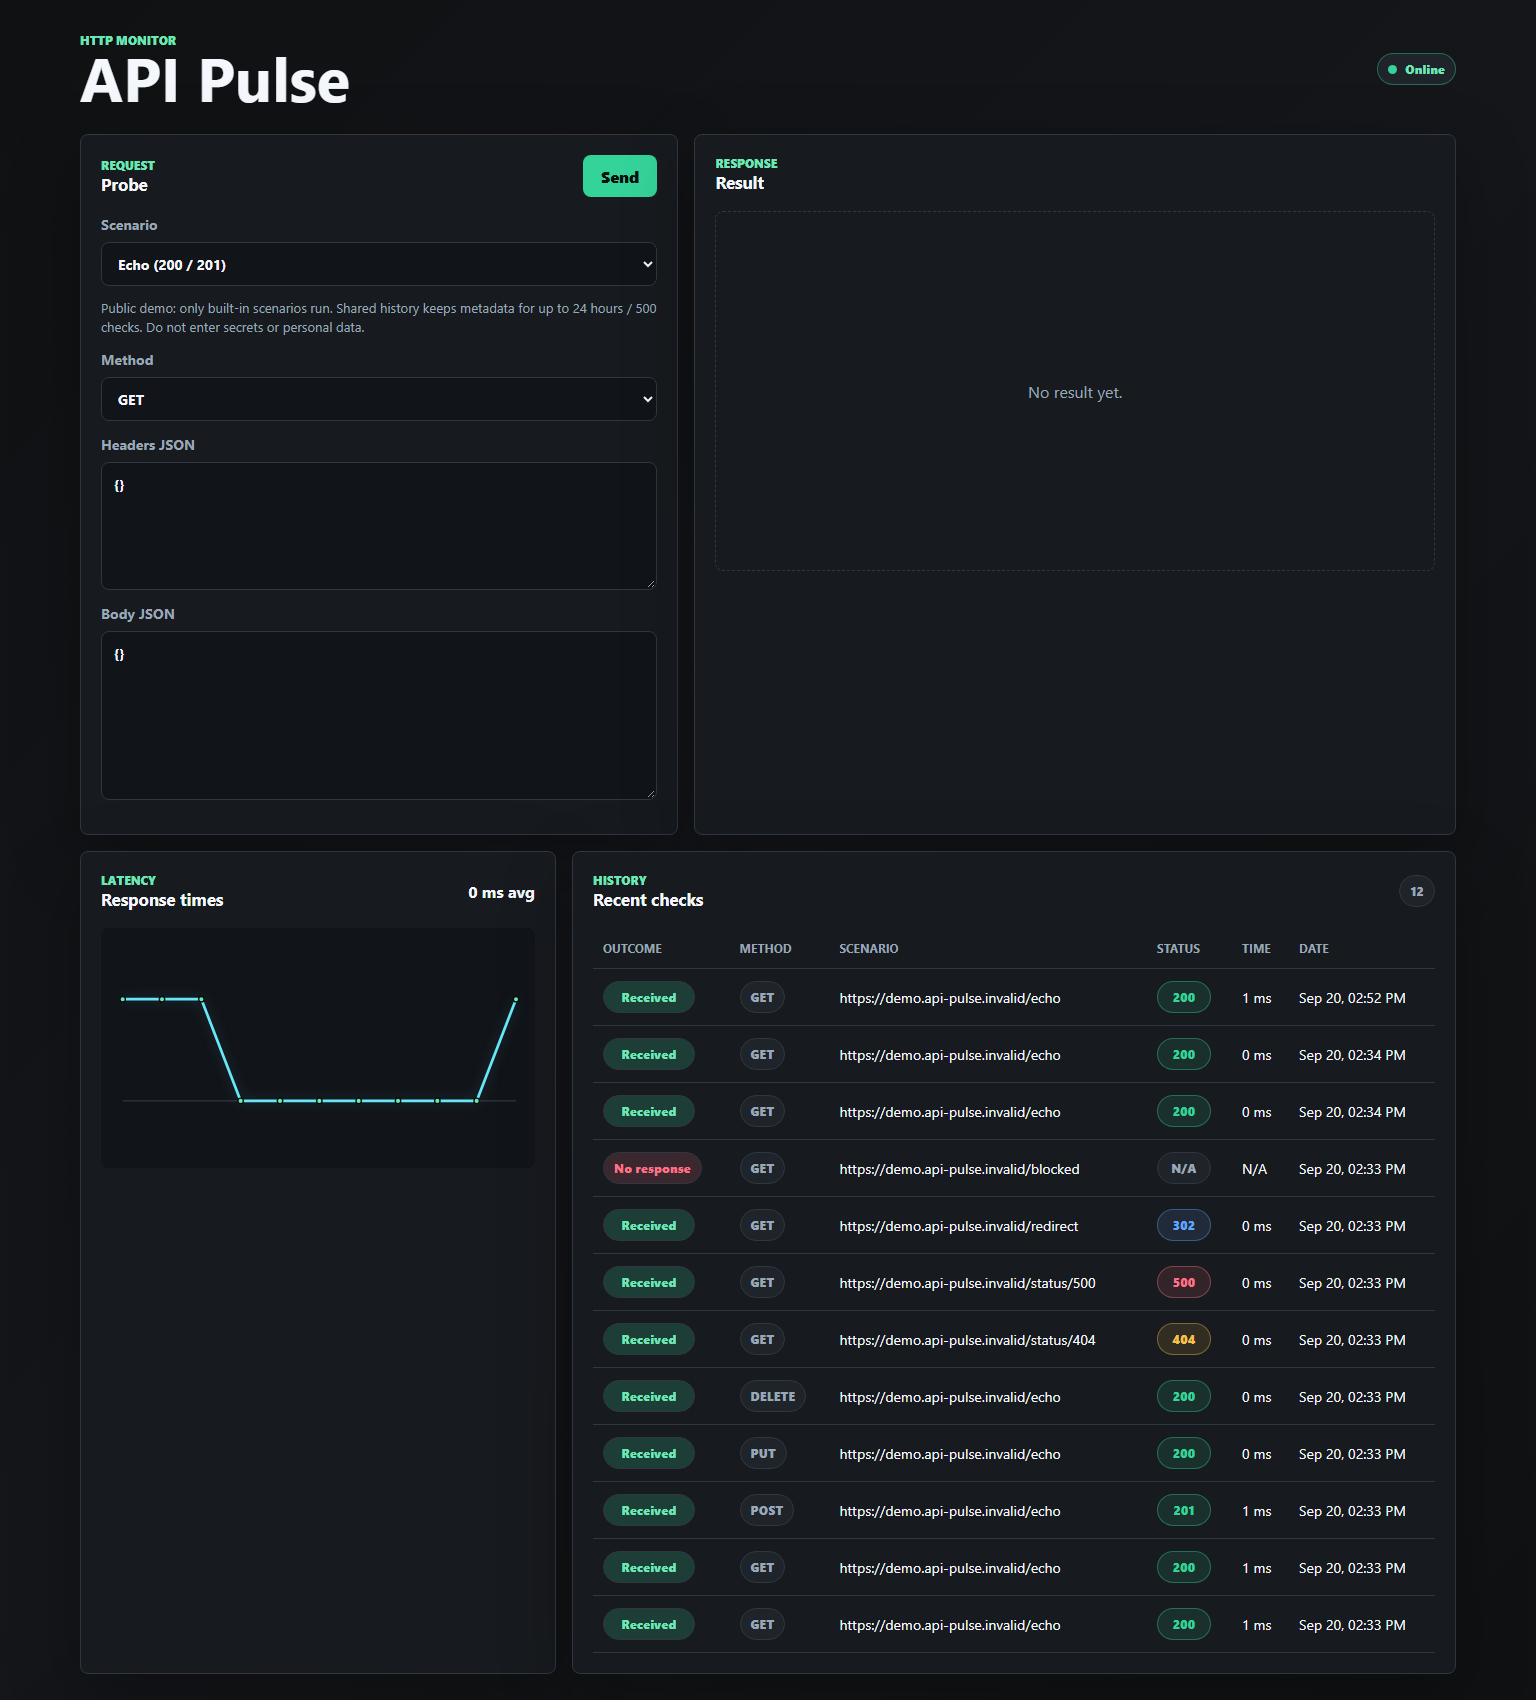
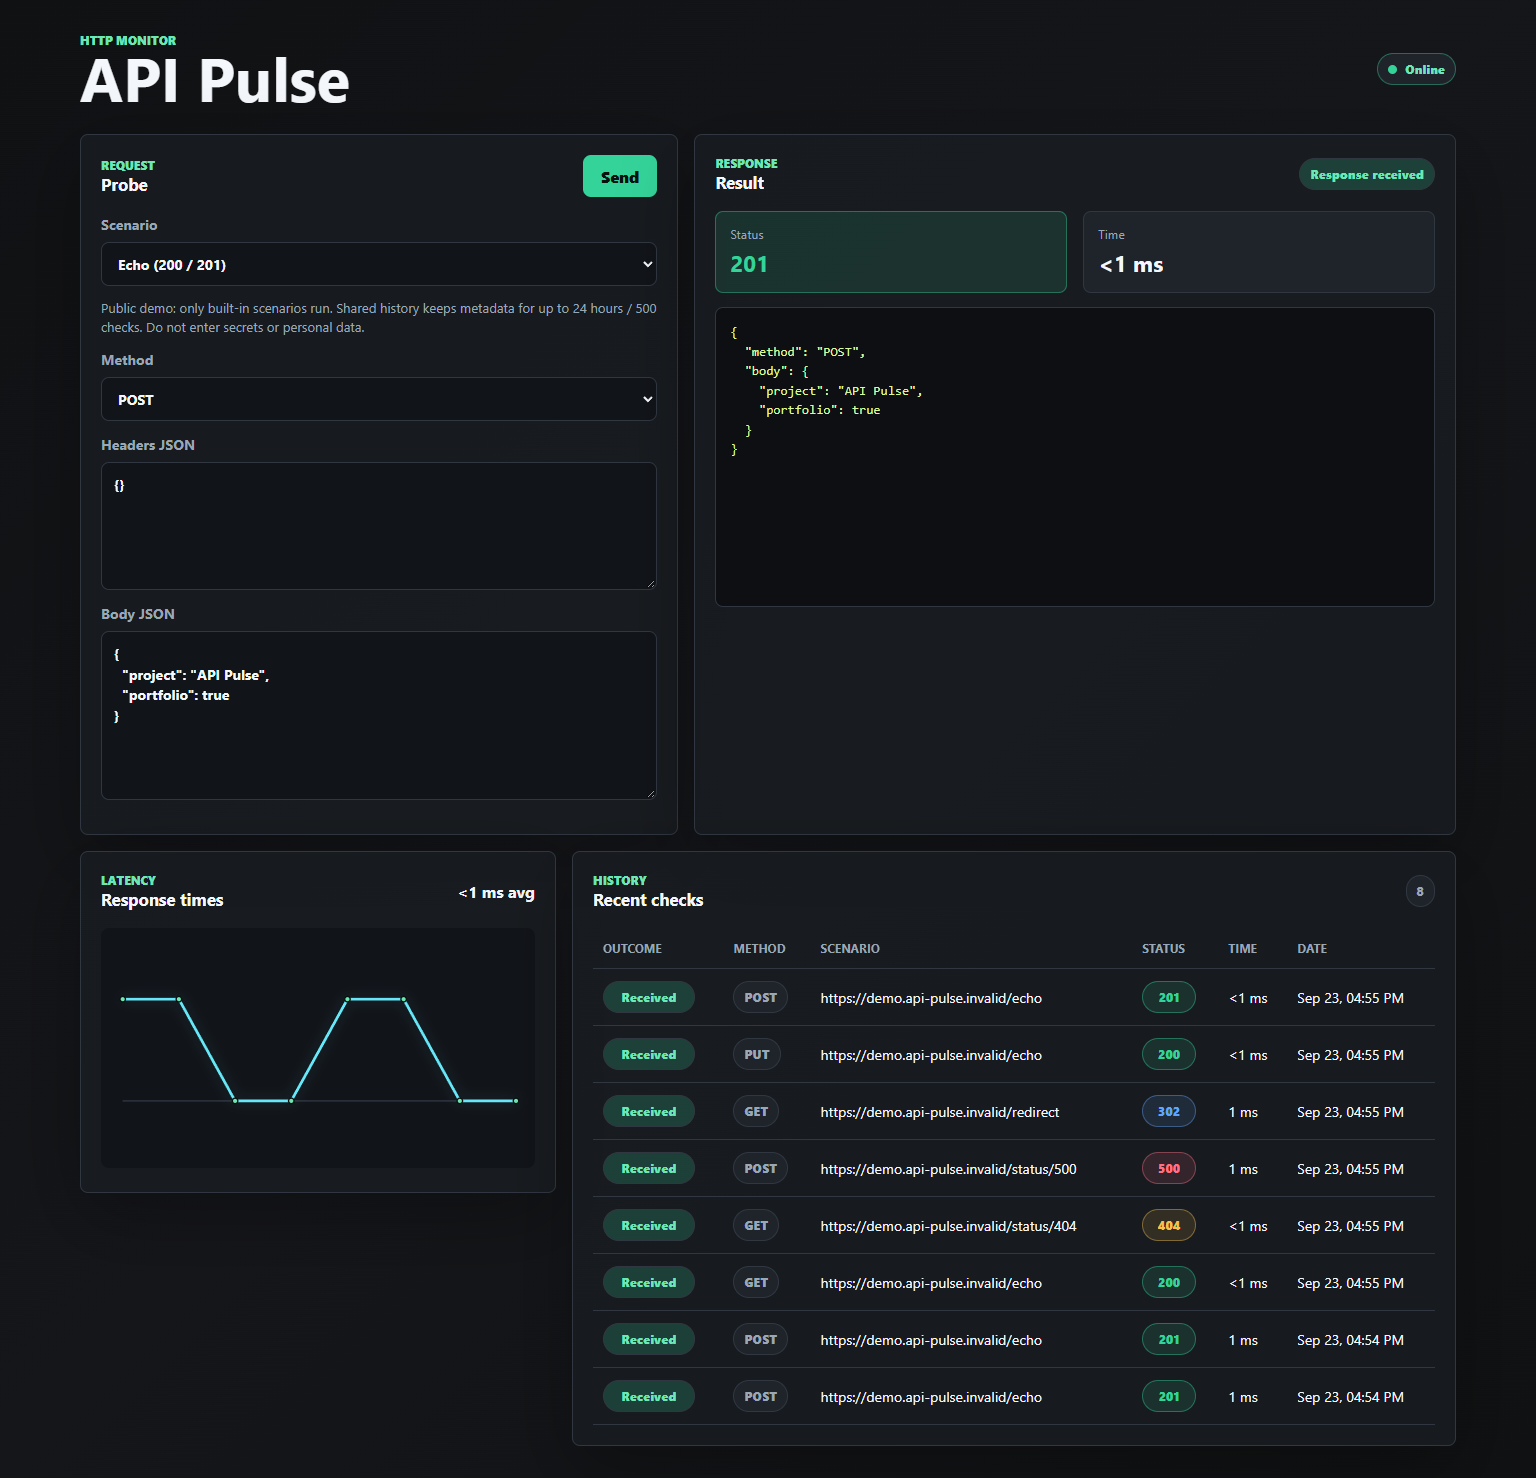
Refresh the README screenshots and record the final verification
The screenshots dated from before the fixes and showed "0 ms avg" next to a
moving chart, which is exactly what T13 corrected. Both were retaken from the
published demo running adf5bf7, through a headless Chrome on a throwaway
profile, with a real result in the Result panel, varied statuses in the
history and the latency card no longer stretched.

T13 records the full sweep: 39 API checks on the published demo and 39 on the
local integration stack, both without failures, plus the browser passes. The
PostgreSQL smoke ran locally for the first time, on a database created and
dropped for the test.

The 24-hour pruning was observed directly for the first time: a day after the
last checks, the published history came back empty, so the README no longer
lists that as unobserved.

diff --git a/docs/ESTADO_ACTUAL.md b/docs/ESTADO_ACTUAL.md
@@ -414,6 +414,54 @@ Los formatos ráster se generan con la misma geometría: `favicon.ico` con 16, 3
 
 **Comprobaciones:** `npm run build` coloca los tres archivos en `dist/`; `npm test` (12 aprobados) y `npm run lint` aprobados.
 
+## T13 — Verificación final antes del portafolio
+
+**Estado: completado el 2026-09-22 y 2026-09-23.** Batería completa en los dos entornos a petición del usuario, antes de enlazar el proyecto desde su portafolio.
+
+### Demo publicada
+
+39 comprobaciones de API aprobadas, 0 fallidas: `/health` y `/ready`; los cuatro escenarios con los cuatro métodos; 404, 500 y 302 con `success=true`; host en mayúsculas aceptado; destino externo rechazado sin guardar la URL; 429 al superar la cuota del minuto; 422 en cabecera con CRLF, cabecera no ASCII, método no permitido, cuerpo que no es objeto y `limit` fuera de rango; 413 en `/api/checks` y en `/api/checks/`; historial ordenado, con fecha en zona horaria, sin secretos y solo con URLs canónicas; `/api/checks/` y `/health/` sin redirección; HTTP plano redirigido a HTTPS; preflight CORS aceptado desde el sitio y sin cabecera para un origen ajeno; HSTS, favicons y el paquete JS apuntando a la API HTTPS.
+
+En navegador se recorrieron los cuatro escenarios, las validaciones del formulario y la vista móvil a 375 px, sin errores de consola ni desbordamiento horizontal.
+
+### Stack local de integración
+
+39 comprobaciones aprobadas, 0 fallidas, contra PostgreSQL 16 y el destino controlado del proyecto: cuatro métodos con cuerpo, cabecera y query verificados en el eco; 404, 500, 418 y 302 sin seguir la redirección; diez destinos bloqueados, incluidos los nombres internos de Docker `backend` y `postgres`; entradas malformadas registradas como fallo; credenciales de la URL redactadas; 422 de esquema; historial ordenado; preflight CORS desde el frontend local; y un GET real a `https://api.github.com/zen` (HTTP 200 en 274 ms) para comprobar la salida a Internet.
+
+El historial sobrevivió a `restart` con el mismo último id. **El smoke de PostgreSQL se ejecutó por primera vez en local** sobre una base dedicada y temporal creada y eliminada para la prueba: aprobado. También valida el arranque con `lifespan` y la poda contra PostgreSQL real.
+
+### Defectos encontrados y corregidos ([PR #8](https://github.com/estebanfrm/Api-Pulse/pull/8), merge `adf5bf7`)
+
+| # | Defecto | Evidencia | Corrección |
+| --- | --- | --- | --- |
+| 1 | `docker compose up` dejaba el frontend caído: el `Dockerfile` copiaba `vite.config.js` pero no `productionBuild.js`, que ese archivo importa desde T06. El contenedor salía con `Could not resolve "./productionBuild.js"`, así que el recorrido «Ejecutar en local» del README no funcionaba desde T06 | Primer arranque real del stack tras instalar Docker | El `Dockerfile` copia el archivo, y el job de Compose construye la imagen y ejecuta `vite build` dentro. Se comprobó que el control falla con el `Dockerfile` anterior (exit 1) y aprueba con la corrección |
+| 2 | La interfaz mostraba «0 ms» y «0 ms avg»: el backend guarda milisegundos enteros y las respuestas sintéticas quedan en 0 | Demo publicada y captura del README | `formatDuration` compartida por resultado, historial y media: un 0 medido se muestra como «<1 ms» |
+| 3 | Un 302 o un destino bloqueado dejaban un recuadro de respuesta vacío | Demo publicada y stack local | El recuadro solo se pinta con contenido; una respuesta recibida sin cuerpo lo indica |
+| 4 | Los errores de validación llegaban con el prefijo «Value error,» de Pydantic | Cabecera anidada desde la interfaz | `formatApiError`, ahora en su propio módulo y con pruebas, lo elimina |
+| 5 | El panel de latencia se estiraba a la altura del historial y dejaba un hueco vacío bajo la gráfica | Captura de la demo publicada | `align-items: start` en la rejilla de paneles |
+
+### Poda de 24 horas observada en producción
+
+El 2026-09-23, con las últimas comprobaciones registradas el 2026-09-22, el historial de la demo se devolvió **vacío**. Es la primera observación directa de la retención de 24 horas sobre Neon, que hasta ahora solo tenía pruebas automatizadas. El límite documentado en el README se actualizó.
+
+### Capturas del README renovadas
+
+`docs/screenshots/dashboard-public.png` (1536×1478) y `dashboard-compact.png` (800×2375) se rehicieron desde la demo publicada con Chrome sin interfaz y un perfil temporal, sobre el código ya desplegado. Muestran un resultado real, «<1 ms», estados variados en el historial y la gráfica con datos. La captura anterior mostraba «0 ms avg».
+
+### Comprobaciones ejecutadas
+
+- `npm test` 17 aprobados (5 nuevas para `formatDuration` y `formatApiError`), `npm run lint`, `npm run build`.
+- `pytest` 90 aprobados y 1 omitido; el omitido se ejecutó aparte contra PostgreSQL real y aprobó.
+- `docker compose -p api-pulse-t03 -f compose.integration.yml up -d --build --wait` y `restart`, sin eliminar volúmenes ni tocar contenedores de otros proyectos.
+- CI de `main`: cinco jobs aprobados en el merge `adf5bf7`.
+- Despliegue manual de `api-pulse-web` desde `adf5bf7`, 17,3 s.
+
+### No ejecutado
+
+- La insignia «Offline» por respuestas fuera de orden no se puede provocar a voluntad contra el servicio público; queda cubierta por `useApiDashboard.test.js`, y el paquete desplegado es el que contiene esa corrección.
+- El Blueprint no ha vuelto a sincronizar: el log de despliegue advierte que Render no tiene acceso concedido al repositorio en GitHub, así que no recibe avisos de push. Clona igual porque el repositorio es público; si pasara a privado, los despliegues fallarían.
+- No se midió el aislamiento de cuotas entre visitantes distintos detrás del proxy.
+
 ## Historial comprobado con Git
 
 | Commit | Fecha local | Resultado |
@@ -430,7 +478,7 @@ Estos nombres de fases provienen de commits. La numeración de validaciones del 
 
 ## Siguiente punto de entrada
 
-Tras fusionar el cambio de T11 y T12, desplegar manualmente `api-pulse-web` para publicar el favicon y comprobar que `/favicon.svg`, `/favicon.ico` y `/apple-touch-icon.png` responden 200 con su tipo. La API no necesita redespliegue: T12 no toca el backend. No queda un bloque obligatorio T00–T08. Como seguimiento opcional, vigilar cuotas gratuitas, observar la poda tras 24 horas reales, medir aislamiento de cuotas entre visitantes distintos y preparar migraciones explícitas antes de cambios de esquema. No seleccionar servicios pagados ni ampliar la demo a destinos arbitrarios sin una nueva decisión. La aceptación completa está en [el plan](PLAN_DE_CIERRE.md).
+No queda trabajo pendiente para enlazar el proyecto desde el portafolio: la demo publicada sirve `adf5bf7` y quedó verificada en T13. Como seguimiento opcional, conceder acceso al repositorio a la aplicación de Render en GitHub para que el Blueprint vuelva a recibir avisos de push, vigilar las cuotas gratuitas y medir el aislamiento de cuotas entre visitantes detrás del proxy. No queda un bloque obligatorio T00–T08. Como seguimiento opcional, vigilar cuotas gratuitas, observar la poda tras 24 horas reales, medir aislamiento de cuotas entre visitantes distintos y preparar migraciones explícitas antes de cambios de esquema. No seleccionar servicios pagados ni ampliar la demo a destinos arbitrarios sin una nueva decisión. La aceptación completa está en [el plan](PLAN_DE_CIERRE.md).
 
 ## Comprobación de la entrega documental
 

diff --git a/docs/CONTINUIDAD_GPT_5_6.md b/docs/CONTINUIDAD_GPT_5_6.md
@@ -56,9 +56,13 @@ Auditoría sobre `c9685de` con lectura de código, sondas exploratorias y verifi
 
 Concurrencia, fuzzing y cadena de suministro. Siete defectos más corregidos: dos excepciones no controladas que devolvían HTTP 500 en modo local (`socket.getaddrinfo` lanza `UnicodeError` con etiquetas DNS vacías o de más de 63 caracteres; `urlsplit` lanza `ValueError` con una autoridad malformada como `http://[`), cuatro condiciones de carrera del frontend por respuestas fuera de orden —la más visible dejaba la insignia en **Offline** con el backend disponible tras pulsar «Retry connection» durante un arranque en frío— y un workflow de CI sin `permissions`. El fuzzing de 25 760 combinaciones quedó en cero respuestas 5xx. `starlette==0.41.3`, anclada por `fastapi==0.115.6`, arrastra siete avisos GHSA (tres HIGH): se comprobó uno por uno que **ninguno era explotable aquí**. El usuario decidió actualizar: `requirements.txt` pasa a `fastapi==0.141.1` (`starlette 1.6.0`, `anyio 4.15.1`, sin avisos) sin tocar código de aplicación, y la CI gana un job `Python audit` con `pip-audit`, comprobado que discrimina entre el anclaje viejo y el nuevo. Ver [estado T10](ESTADO_ACTUAL.md#t10--segunda-pasada-concurrencia-fuzzing-y-dependencias).
 
+## T13 — Verificación final antes del portafolio
+
+Batería completa en los dos entornos: 39 comprobaciones de API aprobadas en la demo publicada y 39 en el stack local de integración, más recorridos de interfaz en escritorio y móvil. El smoke de PostgreSQL se ejecutó por primera vez en local y aprobó. Cinco defectos corregidos en el [PR #8](https://github.com/estebanfrm/Api-Pulse/pull/8) (merge `adf5bf7`), el principal: el `Dockerfile` del frontend no copiaba `productionBuild.js`, así que `docker compose up` dejaba la interfaz caída desde T06; la CI ahora construye esa imagen y carga la configuración de Vite dentro. Se observó por primera vez la poda de 24 horas en Neon y se rehicieron las capturas del README. Ver [estado T13](ESTADO_ACTUAL.md#t13--verificación-final-antes-del-portafolio).
+
 ## Siguiente acción si se retoma
 
-**Pendiente concreto:** la demo pública sirve `7460134` desde el 2026-09-22, verificada en producción. Servicios y Blueprint siguen `main` (ver T11). Tras fusionar T11 y T12, desplegar `api-pulse-web` para publicar el favicon y comprobar que sus tres archivos responden 200. Después, si el usuario solicita seguimiento, comprobar cuotas gratuitas y observar la poda de 24 horas en Neon; más adelante, medir la separación de cuotas entre visitantes detrás del proxy y añadir migraciones explícitas antes de cambiar columnas. No habilitar destinos arbitrarios ni servicios pagados sin decisión nueva.
+**No queda pendiente para publicar.** La demo sirve `adf5bf7`, verificada en T13, y las capturas del README son de la versión desplegada. Como seguimiento opcional: conceder acceso al repositorio a la aplicación de Render en GitHub (hoy clona por ser público, pero no recibe avisos de push), vigilar cuotas gratuitas, medir el aislamiento de cuotas entre visitantes detrás del proxy y añadir migraciones explícitas antes de cambiar columnas. No habilitar destinos arbitrarios ni servicios pagados sin decisión nueva.
 
 ## Lo que debe recordarse
 

diff --git a/README.md b/README.md
@@ -16,7 +16,7 @@ La demo es anónima y su historial es **compartido**: muestra los 50 registros m
 
 ## Capturas de la demo publicada
 
-Capturas tomadas el 20 de septiembre de 2026 con datos sintéticos. El historial visible cambia a medida que se usa la demo.
+Capturas tomadas el 22 de septiembre de 2026 en la demo publicada, con datos sintéticos. El historial visible cambia a medida que se usa la demo.
 
 ![Panel público de API Pulse: formulario, gráfica e historial](docs/screenshots/dashboard-public.png)
 
@@ -51,7 +51,7 @@ El [workflow de calidad](https://github.com/estebanfrm/Api-Pulse/actions/workflo
 
 - Los tiempos de la demo corresponden a respuestas **sintéticas**, no miden la latencia de una API remota. No hay monitorización programada ni alertas.
 - Se aplican límites de solicitudes, concurrencia y tamaño. Las cuotas viven en memoria de una única instancia; se comprobó un 429 desde un cliente, pero no la separación por IP entre visitantes distintos detrás del proxy.
-- Render y Neon gratuitos pueden entrar en reposo o agotar sus cuotas. No hay garantía de disponibilidad; el uso observado en T07 fue USD 0. La poda de 24 horas/500 registros tiene pruebas automatizadas, pero no se observó todavía durante 24 horas reales en Neon.
+- Render y Neon gratuitos pueden entrar en reposo o agotar sus cuotas. No hay garantía de disponibilidad; el uso observado en T07 fue USD 0. La poda de 24 horas/500 registros tiene pruebas automatizadas y se observó en la demo publicada: un día después, el historial apareció vacío y las comprobaciones del día anterior ya no se devolvían.
 - Los cambios futuros del esquema requieren migraciones: `create_all` solo crea tablas faltantes. La ruta de desarrollo que admite URLs externas mantiene una limitación DNS/conexión y no debe desplegarse públicamente.
 
 Las [limitaciones y siguientes mejoras](docs/ESTADO_ACTUAL.md#hallazgos-prioritarios) están registradas sin presentar capacidades no implementadas como existentes.
